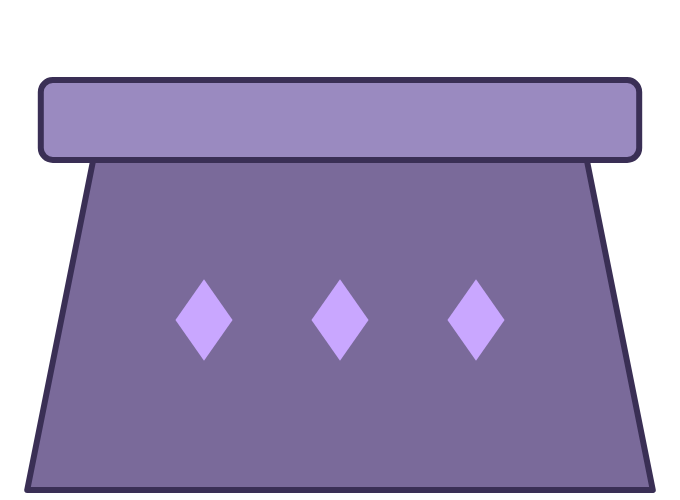
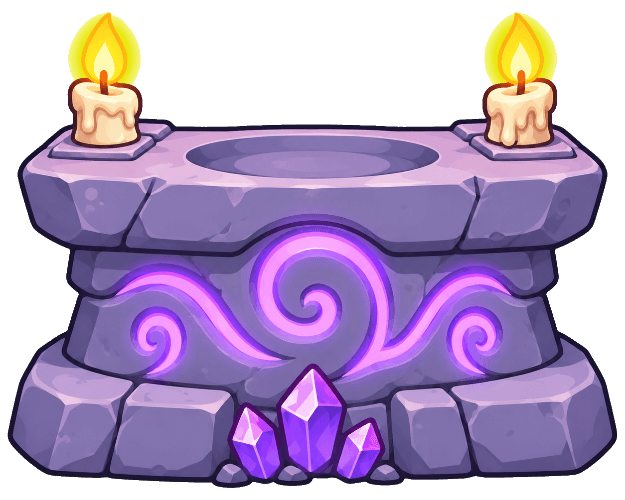
Pictures (item 074): the rune altar and rune stone drawn with art:gen from new briefs (a short, wide lavender-grey altar with glowing swirls, candles and crystals; a round stone with a thick gold rim and a plain pale face), checked in the Charge room beside Julia; M9 done; README: a scratch/ script 

diff --git a/content/art/assets.ts b/content/art/assets.ts
@@ -259,8 +259,11 @@ const PROPS: [string, number, number, string, string, string?][] = [
   ['word_machine', 460, 440, 'A big friendly cartoon word-making machine for a child, front view, standing on the floor: a rounded candy-coloured metal body (sky blue, orange and cream, no green anywhere) with brass rivets, a little chimney puffing a heart-shaped cloud, two springy antennae with bulbs, a row of coloured lights and a crank handle on one side. The upper half is a big round empty glass window (blank, for a picture shown by the game). The lower half is one wide flat empty cream panel, plain and blank (the game shows letters there). No text.', '🏭'],
   ['machine_tile', 130, 110, 'A chunky square toy letter block lying on the floor, seen from slightly above: bright yellow with rounded corners, a soft orange rim and a little shine, the top face completely blank and flat (the game paints a letter on it). No letter in the art.', ''],
   // Charge the Spell (item 053): the game paints the rune's letter on the stone's blank face.
-  ['rune_altar', 340, 250, 'A low magic stone altar seen from the front, standing on the floor: carved grey-violet stone, wider at the base, a flat top, soft violet light glowing in its carved grooves, two little lit candles on its corners. Abstract swirl carvings only, no letters, no symbols that look like letters. No text.', ''],
-  ['rune_stone', 220, 220, 'A big round flat magic rune stone standing upright, front view: a smooth pale lilac stone face that is completely blank and flat (the game paints a big letter on it), a thick glowing gold-and-violet rim, a few tiny sparkles around it. No letter, no symbol, no text in the art.', ''],
+  // Item 074: the stone stands in the altar's top (its lower part behind the altar), she
+  // stands at the altar's left and the helper further left; the stone is also the hub
+  // door's 62 px sign and the battle HUD's 30 px chip, so it is one bold round shape.
+  ['rune_altar', 340, 250, 'A short, wide magic stone altar for a children\'s game, seen straight from the front, standing on the floor: chunky smooth lavender-grey stone blocks with a bold dark outline, wider at the base, a wide flat top with a shallow empty dip in its middle (a round stone is set there by the game), a few carved swirl grooves on its front glowing soft violet, two short lit candles with warm yellow flames on its top corners, three tiny violet crystals at its foot. Simple bold cel-shaded shapes, friendly and cosy, not spooky. Abstract swirls only, no letters, runes or symbols that look like letters. No text.', ''],
+  ['rune_stone', 220, 220, 'A big round flat magic rune stone standing upright, seen straight from the front, a perfect circle filling the picture: a smooth, very pale cream-lilac face, completely blank, flat and empty with no carving and only very soft shading (the game paints a big dark letter on it, so the face stays light and plain), framed by a thick chunky gold rim with a bold dark outline, a soft violet glow just outside the rim, three or four tiny sparkles. Simple cel-shaded cartoon. No letter, no rune, no symbol, no text in the art.', ''],
   ['scroll', 520, 160, 'A wide unrolled magic scroll, rolled ends with wooden knobs, glowing edges, blank parchment in the middle for a word painted by the game. NO TEXT.', '📜'],
 ];
 for (const [id, w, h, content, glyph] of PROPS) {

diff --git a/docs/qa-findings.md b/docs/qa-findings.md
@@ -173,9 +173,9 @@ Most important first; the hunt's pick is in **bold**. Matt took every pick (item
 | M16 | Charge the Spell, battle | The /l/ rune's gesture "Lick a lollipop, it goes..." says POP (a move word) before the battle; fix 72's compound rule would catch it, so LOLLI is left off its list until the line changes (`COMPOUND_HEADS` in `src/rules/bank.ts`). | **(b) a new /l/ gesture without a bank word (e.g. "Sing la, la, la, it goes...": not LIPS, a bank word too), `voice:lines`, `voice:build`, then add LOLLI to the list**; (a) keep POP off the pads in episodes with Charge | Done (item 071): "Sing la, la, la, it goes..." with 🎤 (not 🎵, HUM's picture); LOLLI is in `COMPOUND_HEADS`. |
 | M7 | Battle move choice (sea tug) | With three pads and the knot on her side, the pads do not fit between her and Jormungandr, so one goes past him, under his coils (seen: FLIP). Item 034's rule (her side only) gives way to "anywhere but on him". | (a) keep; **(b) on her side always: try a narrower gap, or the second row for one pad, before going past him**; (c) count the coils as part of him | Done (item 071): `placePads` (`src/battle/padPlace.ts`) tries her side at the full gap, a 240 px gap, nearer the edge, a staggered second row (480 and 590), nearer him, and only then past him. |
 | M8 | Battle move choice | A villain mid-leap when a choice opens lands on a pad's ring after the pads are placed (QUEST under Evil Tiamat): fix 40 places pads by where fighters stand at that moment, and the villain is not stepped back like the team (M6). | (a) keep; **(b) the villain's side steps back off the pads too, as the team does**; (c) place pads by where a leaping fighter will land | Done (item 071): once he has not moved for a second of wall-clock time, a villain under a sign or on a ring steps clear like the team (`villainStepBack`, `clearSpot`); not in a contest. |
-| M9 | Pictures | Seven bank words are still placeholder pictures: ZOO, ZEBRA, APPLE, IGLOO (an ice cube in a box: she would say ICE), OCTOPUS, UMBRELLA, X-RAY; the rune altar and stone props too. MAT and RUG are drawn alike (a striped mat with tassels), so beside each other they read as two rugs. PAN is mostly a big fried egg (she would say EGG, a word she reads too). ROCK, on the bridge room's far bank, looks like one more of the room's painted boulders. | **(b) `npm run art:gen -- pic_igloo pic_zebra pic_apple pic_octopus pic_umbrella pic_xray pic_zoo prop_rune_altar prop_rune_stone`, and `art:alts` for MAT (a play mat without tassels), PAN (empty) and ROCK (outlined, a pet rock)**; (a) keep IGLOO and MAT out of play (`odd`) until then. Item 070: the seven pictures drawn (the rune props not, the item named only the seven); MAT, PAN and ROCK drawn as candidates from briefs. Item 073: Matt's picks promoted, each brief now the game's prompt (`PICTURES`): MAT 3 (interlocking jigsaw foam tiles, no tassels), PAN 2 (empty, no egg), ROCK 4 (bold outlined orange-brown rock) | Items 070, 073. |
+| M9 | Pictures | Seven bank words are still placeholder pictures: ZOO, ZEBRA, APPLE, IGLOO (an ice cube in a box: she would say ICE), OCTOPUS, UMBRELLA, X-RAY; the rune altar and stone props too. MAT and RUG are drawn alike (a striped mat with tassels), so beside each other they read as two rugs. PAN is mostly a big fried egg (she would say EGG, a word she reads too). ROCK, on the bridge room's far bank, looks like one more of the room's painted boulders. | **(b) `npm run art:gen -- pic_igloo pic_zebra pic_apple pic_octopus pic_umbrella pic_xray pic_zoo prop_rune_altar prop_rune_stone`, and `art:alts` for MAT (a play mat without tassels), PAN (empty) and ROCK (outlined, a pet rock)**; (a) keep IGLOO and MAT out of play (`odd`) until then. Item 070: the seven pictures drawn (the rune props not, the item named only the seven); MAT, PAN and ROCK drawn as candidates from briefs. Item 073: Matt's picks promoted, each brief now the game's prompt (`PICTURES`): MAT 3 (interlocking jigsaw foam tiles, no tassels), PAN 2 (empty, no egg), ROCK 4 (bold outlined orange-brown rock). Item 074: the rune props drawn with `art:gen` from new briefs (`content/art/assets.ts`): a short, wide lavender-grey stone altar with glowing swirls, two candles and crystals at its foot, and a round stone with a thick gold rim and a plain pale face for the letter; checked in the room, she stands clear at the altar's left. | Done (items 070, 073, 074). |
 | M10 | Lines that point at nothing | "Look! A fish is waving at us!" (the boat scene, no fish); reformed Jormungandr's "Look, I am a big rainbow noodle!" (he is green); reformed Warlock Jason's "Look, a rainbow spell!" (no spell shows). Same kind as W6's robot. | **(b) reword the three (no "Look" at something not drawn), then `voice:lines`, `voice:build`**; (c) add a fish prop and a rainbow burst on those lines | Done (item 071): "Our boat bobs on the little waves!", "I am a happy green noodle now!" (key `green`), "Sparkles and giggles for everybody!" (key `giggles`). |
-| M11 | Wording | The word machine's "Here are some new sounds! Let's make one more." plays when two words are left (a first family of only two words: NET/VET, DOG/LOG, PIN/BIN, FOX/BOX, SUN/BUN). Evil Bavmorda's ultimate shows and says EVERYBODY PIGS!! (two marks). The /e/ rune's gesture "Knock knock, crack it open" never names the egg and shares "knock" with /k/. Three of Bavmorda's six taunts start "Bow...". Scar's and cyber Dada Matt's gift scenes say "your armor" (she wears none in their episodes). | **(b) reword each: "Let's make a new word!", drop the roster's own "!" on Everybody Pigs, "Tap the egg, crack it open, it goes...", a new cackle taunt, "your powers"; then `voice:lines`, `voice:build`** | Done (item 071) as picked. The cackle is "You cannot stop my magic, little hero!" and the piglets "Off you go, little piglets!" (one "Bow" left). The /e/ line says TAP and EGG, bank words, so with no answer to the question Matt's default (a) applies: `GESTURE_WORDS` (`src/rules/charge.ts`) counts them as said in every episode (no pad, gift, warm-up, key or Charge word), and its glyph is 🐣 (🥚 is EGG's and NEST's picture). |
+| M11 | Wording | The word machine's "Here are some new sounds! Let's make one more." plays when two words are left (a first family of only two words: NET/VET, DOG/LOG, PIN/BIN, FOX/BOX, SUN/BUN). Evil Bavmorda's ultimate shows and says EVERYBODY PIGS!! (two marks). The /e/ rune's gesture "Knock knock, crack it open" never names the egg and shares "knock" with /k/. Three of Bavmorda's six taunts start "Bow...". Scar's and cyber Dada Matt's gift scenes say "your armor" (she wears none in their episodes). | **(b) reword each: "Let's make a new word!", drop the roster's own "!" on Everybody Pigs, "Tap the egg, crack it open, it goes...", a new cackle taunt, "your powers"; then `voice:lines`, `voice:build`** | Done (item 071) as picked. The cackle is "You cannot stop my magic, little hero!" and the piglets "Off you go, little piglets!" (one "Bow" left). The /e/ line says TAP and EGG, bank words, so with no answer to the question Matt's default (a) applies: `GESTURE_WORDS` (`src/rules/charge.ts`) counts them as said in every episode (no pad, gift, warm-up, key or Charge word), and its glyph is 🐣 (🥚 is EGG's and NEST's picture). Item 074 (Matt): narrowed, as EGG was then never read anywhere: a gesture's words count as said only in an episode whose Charge word has that rune, from when it plays (`gestureWords`): the Charge word is never one whose gestures say a word read after it (gift, pads, other rooms, the attic), and the keys drawn after it keep clear of them. |
 | M12 | Victory (dessert, reformed Chef Jason) | With Chef Jason as the villain, his reformed line and the scene's close are the same sentence ("This is the best party ever!"), said twice in a row. | **(b) a different party line for him**; (c) the script skips a close the villain just said | Done (item 071): "Let's have a party every day!" |
 | M13 | Hub, sentence room | On "There are two doors! Walk to one..." the box goes to the bottom and hides most of Julia, the cursor she is told to walk; on the line before, the top box hides the door signs as they pop in. Under a two-row banner (the attic) "Now find it, and press green!" does the same: the banner holds the top, so the box covers her at the bottom. | (a) keep (one line each); **(b) the hub's door lines use a narrower box on the side away from her** | Done (item 071): `CaptionOptions.narrow` (320 px of text, up to four rows, whichever side and band cover least) for the door lines, the gift scene's last line and the attic's find line. `tests/cover.spec.ts` "keeps off her". |
 | M17 | Battle move choice (contests) | In a race, beam clash, tug or cook-off the team holds its stations (M6's step back skips contests), so a dad can stand behind a pad's sign for the whole choice, only his legs showing (Dada Matt behind JIG in the race, cyber Dada Matt behind FOG in the clash). | (a) keep, the signs are what she reads; **(b) pads keep clear of the team's stations in a contest (their bodies weigh in the pad placement, as the villain's do)**; (c) step back in contests too, and back to the station after | Done (item 071): no sign may cover the villain, nor in a contest the team (and the helper) at its stations; where nothing is clean, the least covering placement on her side. `tests/unit/padPlace.test.ts`. |

diff --git a/docs/systems.md b/docs/systems.md
@@ -23,7 +23,7 @@
 | Hub | `src/scenes/HubScene.ts` | Phases `intro → circle → doors → secret → front → leaving`. Part 1: the helper's story scene (`hubScene()`, `teach()`): its lines, then its `prop` (an art id or an emoji card) pops up with the gift word on it, the last line trails off into `nar_<narrator>_gift_word_<w>`, the scene's `circle` line sends her to the glowing circle (yellow repeats it), the word flies into her, the scene's `done` line; then doors `a` and `b`. Part 2: the secret `counter` door (the attic). A door is invisible until it is usable: the side doors pop in after the gift, the front door when the part's rooms are done, the counter door in part 2. Restarted on each return, so all state is read back from `episode`. Its backdrop is `hubArt(episode.place)` (the house's `room_hub` or a quest place's `room_place_<id>`); away from home the way out is `prop_portal` and the lines are the `away_*` ones. |
 | Minigame pool | `src/rules/minigames.ts` | Pure. `MINIGAMES` (id, scene, weight, slots), `drawGames(store, rand)`: two fetch games and a counter game per episode, weighted (a game from her last episodes, the store's `recent.games`, weighs `VARIETY.gameWeight`; item 067), no repeat; `enterRoom` starts the drawn game's scene. The sentence game in each frame, and the word machine (fetch rooms only). `episodePlans` (`src/rules/sentences.ts`) turns the draw into `RoomPlan`s (`kind: 'sentence' | 'machine'`, each with `key` and `fetches`); `?game=` / `?games=sentence` override the draw (`roomGames` in Episode). |
 | Word machine | `src/scenes/WordMachine.ts`, `src/rules/wordMachine.ts`, `content/phonics/families.ts` | A `SideRoom` for a fetch room whose plan is `kind: 'machine'`. `planMachine(store, { avoid, taken })`: `rounds` words from the word bag, one family then another, leaning to shaky `rimes`, each word by the bank's `wordWeight` × its shaky `onsets`; make mode builds only a family's pictured `words`. Per round: picture, rime, tiles (`onNear` says the letter sound); green → `letter_<x>_sound`, a beat, `rime_<r>`; right → payoff, `word_<w>`, picture into the `Bag`, `episode.fetched`/`read`, `progress.record` for `words`, `rimes`, `onsets`, bag spend; wrong → `machine_makes` + `silly_<w>` + `machine_silly_N`, the tile pops back. Hooks: `room.machine`. |
-| Charge the Spell | `src/scenes/ChargeRoom.ts`, `src/rules/charge.ts`, `content/phonics/runes.ts` | Item 053; one word a visit since 058; no presses per rune since 059. A `SideRoom` (`CHARGE_GAME`, fetch rooms only) whose plan is `kind: 'charge'` (`key` and `fetches` the word, a battle item). `planCharge(store, { avoid }, rand)`: one word of `CHARGE.units` units from `CHARGE_WORDS` (familiar pictured words whose every unit is a rune, no sound twice) through `drawWords` × its sounds' shakiness (item 067: every sound in play, no tiers); `episodePlans` keeps it off every other room's words. Its runes are the word's sounds, in order. Per rune (item 059, no presses): it lights, the helper's gesture and `letter_<x>_sound`, a `CHARGE.sayBackMs` beat for her to say it back (held under dad lock), and it charges. Then the read, the room's one press: Dad's yes (key 2, live from the moment the word lights) says `word_<w>`; a no (key 1) or `CHARGE.readTimeoutMs` sounds it out together once first; either way `words` and the word's `sounds` are recorded (right with his yes), the bag taken from or returned to, and the word goes to `read` and `fetched`. The help-level ramp (`chargeLevel`, ProgressStore `chargeLevels`) is kept in the store but unused since item 059 (and capped by `DIFFICULTY` like every ramp, `src/rules/difficulty.ts`). Charged sounds go to `episode.charged` (`{ sounds, part }`); BattleScene `useCharged` fires each rune's `move` after the fetched items, with a rune chip row in the HUD. Forced into door a by `FORCE_PHONICS_ROOM` / `?room=charge` (`roomGames` in Episode). Hooks: `room.charge`, `battle.runesFired`. |
+| Charge the Spell | `src/scenes/ChargeRoom.ts`, `src/rules/charge.ts`, `content/phonics/runes.ts` | Item 053; one word a visit since 058; no presses per rune since 059. A `SideRoom` (`CHARGE_GAME`, fetch rooms only) whose plan is `kind: 'charge'` (`key` and `fetches` the word, a battle item). `planCharge(store, { avoid }, rand)`: one word of `CHARGE.units` units from `CHARGE_WORDS` (familiar pictured words whose every unit is a rune, no sound twice) through `drawWords` × its sounds' shakiness (item 067: every sound in play, no tiers); `episodePlans` keeps it off every other room's words; item 074: never a word whose runes' gestures (`gestureWords`, the /e/ rune's TAP and EGG) say a word read after it (`later`: the gift, pads, other rooms, the attic), and the keys drawn after it keep clear of what they say. Its runes are the word's sounds, in order. Per rune (item 059, no presses): it lights, the helper's gesture and `letter_<x>_sound`, a `CHARGE.sayBackMs` beat for her to say it back (held under dad lock), and it charges. Then the read, the room's one press: Dad's yes (key 2, live from the moment the word lights) says `word_<w>`; a no (key 1) or `CHARGE.readTimeoutMs` sounds it out together once first; either way `words` and the word's `sounds` are recorded (right with his yes), the bag taken from or returned to, and the word goes to `read` and `fetched`. The help-level ramp (`chargeLevel`, ProgressStore `chargeLevels`) is kept in the store but unused since item 059 (and capped by `DIFFICULTY` like every ramp, `src/rules/difficulty.ts`). Charged sounds go to `episode.charged` (`{ sounds, part }`); BattleScene `useCharged` fires each rune's `move` after the fetched items, with a rune chip row in the HUD. Forced into door a by `FORCE_PHONICS_ROOM` / `?room=charge` (`roomGames` in Episode). Hooks: `room.charge`, `battle.runesFired`. |
 | Stretchy Bridge | `src/scenes/BridgeRoom.ts`, `src/rules/bridge.ts`, `src/audio/holdSound.ts` | Item 054. A `SideRoom` (`BRIDGE_GAME`, fetch rooms only) whose plan is `kind: 'bridge'` (`fetches` its words, `key` the last). `planBridge(store, { avoid, taken }, rand)`: `BRIDGE.words` from `CROSS_WORDS` (familiar short-vowel things of `BRIDGE.maxUnits` sound units at most; item 067: no tier gate) by `drawWords` × 2 in her word bag (`bridgeTier`: 1 hold-sound CVC, 2 stop CVC, 3 blends and digraphs, orders a visit), easier tiers first; `bridgePictures`: the far bank's others, sharing two sounds from the start, then one, then the rime (`sharedStart`). Per word: the help level (`bridgeLevel`: the recorded `recordedBridgeLevel`, ProgressStore `bridgeLevels`, capped by `DIFFICULTY`, so level 1 at base); stones by sound unit over the gap (`gapFor`), the stick slowed on them (`RoomScene.moveScale`), each stone's `letter_<x>_sound` held by `voiceBus.hold(id, 'hold' \| 'once', maxMs)` while she stands on it (VoiceBank `held` cuts the decoded clip, cached per buffer). Dad's buttons open at levels 2–3: a level-2 yes is a hint (`replay`), level 3 asks on the far bank (`say`), a no or `BRIDGE.dadWaitMs` replays. A wrong picture: `bridge_picked`, its units' sounds, `bridge_<where>` (`whereDiffers`) and the stone's sound, back to the near bank. Right: `words` recorded, the level moved once, bag spend, `word_<w>`, into the `Bag`, `episode.read`/`fetched`. Hooks: `room.bridge`. |
 | Dad buttons | `src/input/dadButtons.ts` | Item 053. Keys 1 (no) and 2 (yes), live under dad lock, ignored unless a game has `openDadButtons(fn)` open (it returns the closer; close on SHUTDOWN). The DOM cue `#dad-buttons` (bottom right) shows while open, lit by `setDadAsking(true)`. Tests: `__ww.dad('yes')` or `page.keyboard.press('Digit2')`. |
 | Cast | `src/rules/cast.ts` | Pure, unit-tested. `drawCast({ hero, recent, recentAllies, recentForms, overrides }, rand, active = ACTIVE_CAST)`: the dads' forms (avoiding each dad's recent forms, item 067), the villain (per person from the active cast's villains, avoiding her recent villains), the ally (from the active allies, avoiding her recent allies), the primary and secondary dads; `wakerOf`, `seededRand`. Odds: `CAST_ODDS` in config. |

diff --git a/docs/art.md b/docs/art.md
@@ -491,8 +491,8 @@ Word pictures must contain no text or letters: the word is the reading answer.
 | `prop_silver_sword` | 80×220 | A single small magic sword standing perfectly upright, point straight up at the top and the hilt at the bottom, seen flat side-on: a shining icy pale-blue crystal blade with a bright edge, a silver crossguard with round ends and a pink gem at its centre, a pink-wrapped grip and a round pink gem on the pommel, a few tiny pale-blue sparkles. Toy-like, friendly and magical, not a real weapon. Just the sword, nothing else. |
 | `prop_word_machine` | 460×440 | A big friendly cartoon word-making machine for a child, front view, standing on the floor: a rounded candy-coloured metal body (sky blue, orange and cream, no green anywhere) with brass rivets, a little chimney puffing a heart-shaped cloud, two springy antennae with bulbs, a row of coloured lights and a crank handle on one side. The upper half is a big round empty glass window (blank, for a picture shown by the game). The lower half is one wide flat empty cream panel, plain and blank (the game shows letters there). No text. |
 | `prop_machine_tile` | 130×110 | A chunky square toy letter block lying on the floor, seen from slightly above: bright yellow with rounded corners, a soft orange rim and a little shine, the top face completely blank and flat (the game paints a letter on it). No letter in the art. |
-| `prop_rune_altar` | 340×250 | A low magic stone altar seen from the front, standing on the floor: carved grey-violet stone, wider at the base, a flat top, soft violet light glowing in its carved grooves, two little lit candles on its corners. Abstract swirl carvings only, no letters, no symbols that look like letters. No text. |
-| `prop_rune_stone` | 220×220 | A big round flat magic rune stone standing upright, front view: a smooth pale lilac stone face that is completely blank and flat (the game paints a big letter on it), a thick glowing gold-and-violet rim, a few tiny sparkles around it. No letter, no symbol, no text in the art. |
+| `prop_rune_altar` | 340×250 | A short, wide magic stone altar for a children's game, seen straight from the front, standing on the floor: chunky smooth lavender-grey stone blocks with a bold dark outline, wider at the base, a wide flat top with a shallow empty dip in its middle (a round stone is set there by the game), a few carved swirl grooves on its front glowing soft violet, two short lit candles with warm yellow flames on its top corners, three tiny violet crystals at its foot. Simple bold cel-shaded shapes, friendly and cosy, not spooky. Abstract swirls only, no letters, runes or symbols that look like letters. No text. |
+| `prop_rune_stone` | 220×220 | A big round flat magic rune stone standing upright, seen straight from the front, a perfect circle filling the picture: a smooth, very pale cream-lilac face, completely blank, flat and empty with no carving and only very soft shading (the game paints a big dark letter on it, so the face stays light and plain), framed by a thick chunky gold rim with a bold dark outline, a soft violet glow just outside the rim, three or four tiny sparkles. Simple cel-shaded cartoon. No letter, no rune, no symbol, no text in the art. |
 | `prop_scroll` | 520×160 | A wide unrolled magic scroll, rolled ends with wooden knobs, glowing edges, blank parchment in the middle for a word painted by the game. NO TEXT. |
 | `prop_end_table` | 900×450 | A long wooden dining table seen from the front at eye level, with a white tablecloth hanging down at the front, and on top in the middle a big three-layer birthday cake with pink icing, strawberries and candles, plates of cupcakes and cookies either side. Just the table, no chairs. No text, chunky cartoon. Transparent background. |
 | `prop_end_picnic` | 600×266 | A red-and-white checked picnic blanket spread on the ground seen at a low angle (a wide flat shape), with a wicker picnic basket, sandwiches, a jug of lemonade and a bowl of strawberries on it. No text, chunky cartoon. Transparent background. |

diff --git a/README.md b/README.md
@@ -695,9 +695,10 @@ git-ignored, so a round may run as a **readonly** item beside other work. Promot
   under 120) stays solid. `art:gen`, `--reprocess`, `art:alts` and `art:pick` all take
   the mode from `keyMode`. A family form that wears dark green goes in `LIGHT_GREEN`,
   not `NO_GREEN`.
-- A script in `scratch/` that imports `../tools/…` gets the **main checkout's** copy, not
-  the worktree's: `scratch/` is a junction and Node resolves the real path (item 049).
-  Import by absolute path (`pathToFileURL(path.resolve('tools/…'))`) from the worktree root.
+- A script in `scratch/` that imports `../tools/…` or `../content/…` (or `../src/…`) gets
+  the **main checkout's** copy, not the worktree's: `scratch/` is a junction and Node
+  resolves the real path (item 049; `content/` the same, item 074). Import by absolute path
+  (`pathToFileURL(path.resolve('content/…'))`) from the worktree root.
 - `npm test` empties `test-results/` as it starts (Playwright's output folder): a
   script or log kept there by a run beside it is deleted. Keep logs in `scratch/`.
 - A new `prop_word_machine` means refitting `WINDOW` / `PANEL` in
